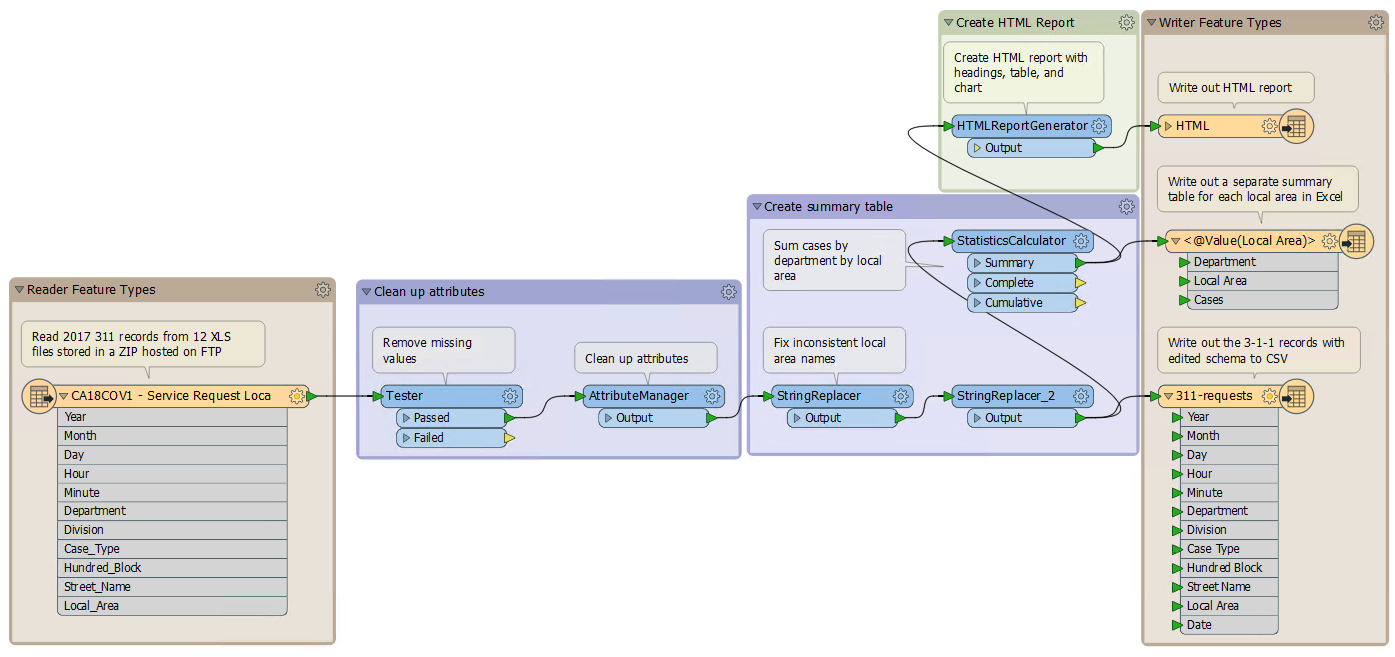
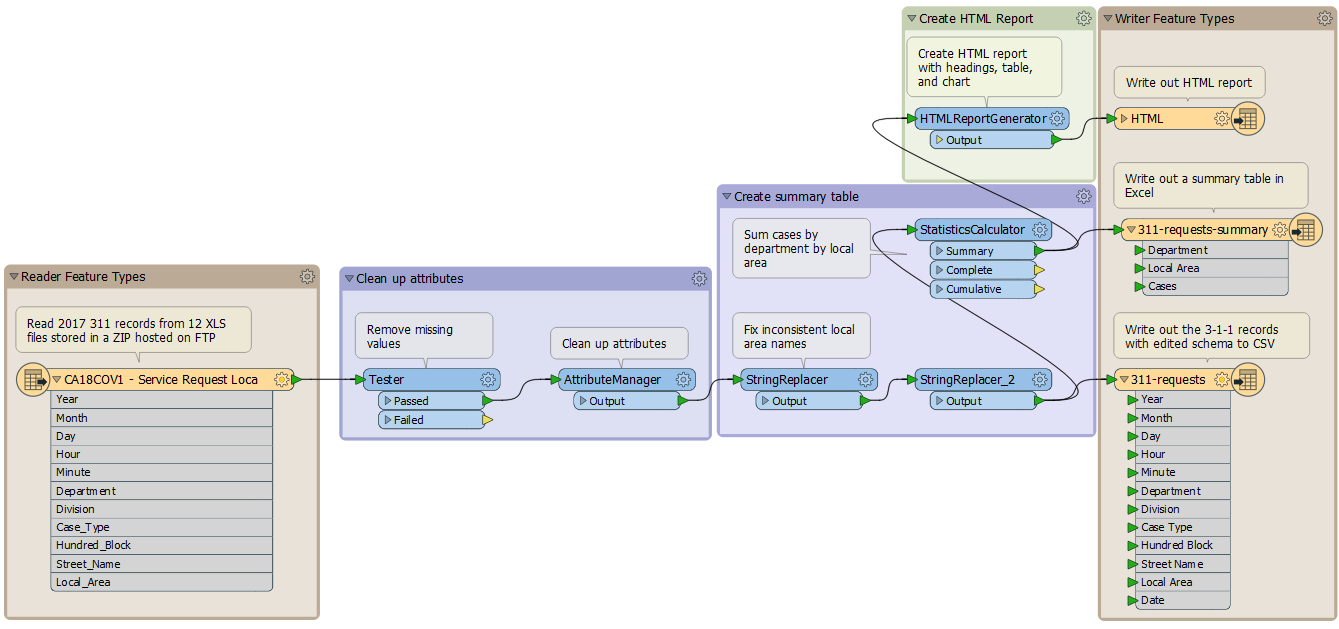
Fixed images to remove fanout

Changed region(s): [[0.5205, 0.0, 1.0, 0.9968], [0.0, 0.3927, 0.5512, 0.9968], [0.7349, 0.5135, 0.7655, 0.5437]]

diff --git a/1.getting-started/1.05.ex1.1.md b/1.getting-started/1.05.ex1.1.md
@@ -47,7 +47,7 @@ Now look at the right-hand side:
 
 ![](./Images/Img1.203.Ex1.BookmarkedWriter.png)
 
-This area is where we write data. The objects here represent a report of the call records as a simple webpage (HTML) and an Excel file (<@Value(Local Area)>), as well as a CSV file with cleaned and edited data (311-requests).
+This area is where we write data. The objects here represent a report of the call records as a simple webpage (HTML), an Excel file (311-requests-summary), and a CSV file with cleaned and edited data (311-requests).
 
 In between the reader and writer are objects that transform data. They alter the structure (e.g., attribute names) and content (e.g., values of attributes) of the data as it moves from left to right.
 
